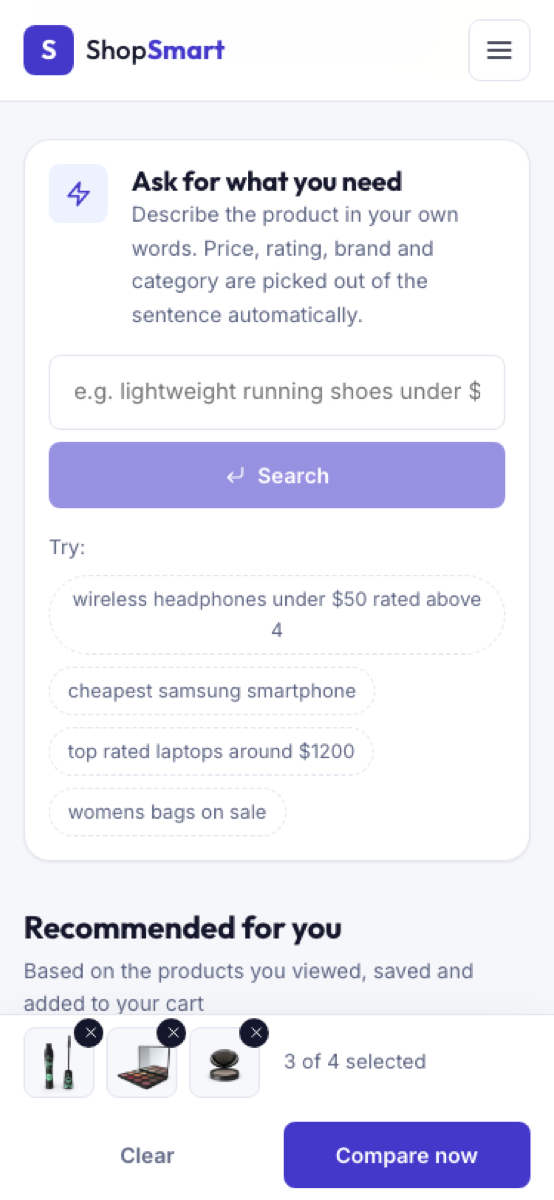
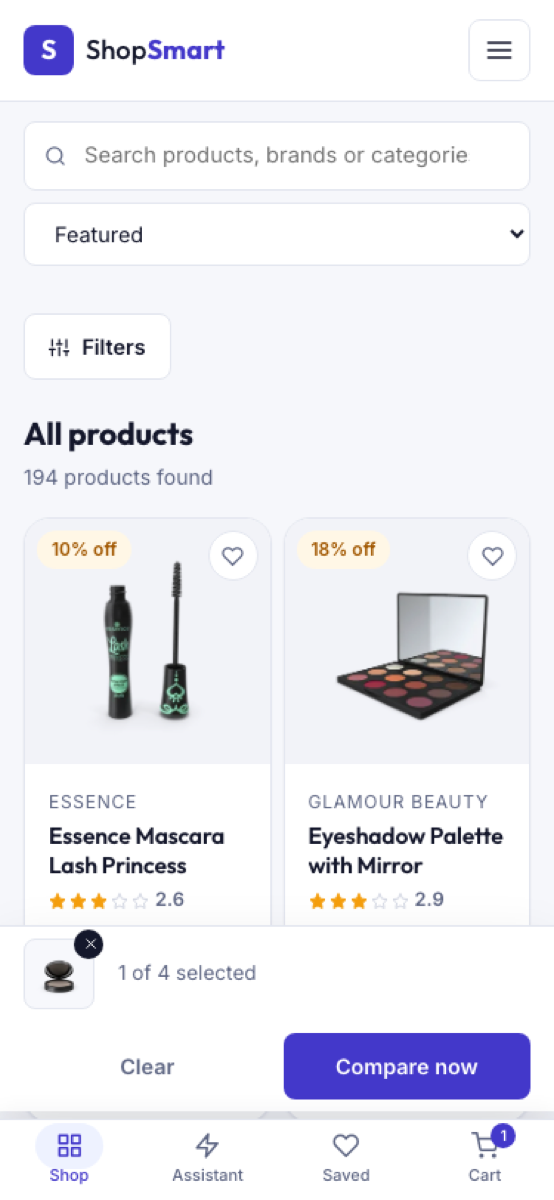
Swap add to cart for go to cart and add mobile bottom navigation

Changed region(s): [[0.0, 0.1233, 1.0, 1.0], [0.9206, 0.185, 0.9513, 0.2158], [0.0921, 0.1233, 0.1227, 0.1542]]

diff --git a/src/components/BottomNav/BottomNav.jsx b/src/components/BottomNav/BottomNav.jsx
@@ -1,0 +1,50 @@
+import { NavLink } from 'react-router-dom'
+import { FiGrid, FiHeart, FiShoppingCart, FiZap } from 'react-icons/fi'
+import { useShop } from '../../context/ShopContext'
+import './BottomNav.css'
+
+const items = [
+  { to: '/', label: 'Shop', icon: FiGrid, end: true, countKey: null },
+  { to: '/assistant', label: 'Assistant', icon: FiZap, countKey: null },
+  { to: '/wishlist', label: 'Saved', icon: FiHeart, countKey: 'wishlistCount' },
+  { to: '/cart', label: 'Cart', icon: FiShoppingCart, countKey: 'cartCount' }
+]
+
+// Phone sized screens get the usual thumb reachable bar instead of reaching for the
+// menu button in the top corner.
+function BottomNav() {
+  const counts = useShop()
+
+  return (
+    <nav className="bottom-nav" aria-label="Primary mobile">
+      <ul>
+        {items.map(({ to, label, icon: Icon, end, countKey }) => {
+          const count = countKey ? counts[countKey] : 0
+
+          return (
+            <li key={to}>
+              <NavLink
+                to={to}
+                end={end}
+                className={({ isActive }) => (isActive ? 'bottom-nav-link is-active' : 'bottom-nav-link')}
+              >
+                <span className="bottom-nav-icon">
+                  <Icon aria-hidden="true" />
+                  {count > 0 ? (
+                    <span className="bottom-nav-count">
+                      {count > 9 ? '9+' : count}
+                      <span className="visually-hidden"> items</span>
+                    </span>
+                  ) : null}
+                </span>
+                {label}
+              </NavLink>
+            </li>
+          )
+        })}
+      </ul>
+    </nav>
+  )
+}
+
+export default BottomNav

diff --git a/src/components/BottomNav/BottomNav.css b/src/components/BottomNav/BottomNav.css
@@ -1,0 +1,70 @@
+.bottom-nav {
+  display: none;
+}
+
+@media (max-width: 767px) {
+  .bottom-nav {
+    position: fixed;
+    left: 0;
+    right: 0;
+    bottom: 0;
+    z-index: 25;
+    display: block;
+    background-color: var(--color-surface);
+    border-top: 1px solid var(--color-border);
+    padding-bottom: env(safe-area-inset-bottom);
+    box-shadow: 0 -4px 16px rgba(20, 23, 43, 0.06);
+  }
+
+  .bottom-nav ul {
+    display: grid;
+    grid-template-columns: repeat(4, 1fr);
+  }
+
+  .bottom-nav-link {
+    display: flex;
+    flex-direction: column;
+    align-items: center;
+    gap: 2px;
+    padding: var(--space-2) var(--space-1);
+    font-size: 0.68rem;
+    font-weight: 500;
+    color: var(--color-muted);
+  }
+
+  .bottom-nav-link.is-active {
+    color: var(--color-primary);
+  }
+
+  .bottom-nav-icon {
+    position: relative;
+    display: grid;
+    place-items: center;
+    font-size: 1.15rem;
+  }
+
+  .bottom-nav-link.is-active .bottom-nav-icon::after {
+    content: '';
+    position: absolute;
+    inset: -6px -14px;
+    border-radius: var(--radius-pill);
+    background-color: var(--color-primary-soft);
+    z-index: -1;
+  }
+
+  .bottom-nav-count {
+    position: absolute;
+    top: -6px;
+    right: -12px;
+    display: grid;
+    place-items: center;
+    min-width: 17px;
+    height: 17px;
+    padding-inline: 4px;
+    border-radius: var(--radius-pill);
+    background-color: var(--color-primary);
+    color: #fff;
+    font-size: 0.62rem;
+    font-weight: 700;
+  }
+}

diff --git a/src/pages/ProductDetails.jsx b/src/pages/ProductDetails.jsx
@@ -1,6 +1,6 @@
 import { useEffect, useMemo, useState } from 'react'
 import { Link, useParams } from 'react-router-dom'
-import { FiChevronRight, FiHeart, FiPackage, FiShoppingCart, FiTruck } from 'react-icons/fi'
+import { FiCheck, FiChevronRight, FiHeart, FiPackage, FiShoppingCart, FiTruck } from 'react-icons/fi'
 import { useCatalog } from '../context/CatalogContext'
 import { useShop } from '../context/ShopContext'
 import StarRating from '../components/StarRating/StarRating'
@@ -17,7 +17,7 @@ import './ProductDetails.css'
 function ProductDetails() {
   const { id } = useParams()
   const { products, status } = useCatalog()
-  const { addToCart, isWishlisted, toggleWishlist, recordView } = useShop()
+  const { addToCart, isInCart, isWishlisted, toggleWishlist, recordView } = useShop()
   const [activeImage, setActiveImage] = useState(0)
   const [quantity, setQuantity] = useState(1)
 
@@ -140,8 +140,14 @@ function ProductDetails() {
               onClick={() => addToCart(product.id, quantity)}
             >
               <FiShoppingCart aria-hidden="true" />
-              Add to cart
+              {isInCart(product.id) ? 'Add more' : 'Add to cart'}
             </button>
+            {isInCart(product.id) ? (
+              <Link className="btn btn-outline product-actions-cart" to="/cart">
+                <FiCheck aria-hidden="true" />
+                Go to cart
+              </Link>
+            ) : null}
             <button
               type="button"
               className={

diff --git a/src/components/ProductCard/ProductCard.jsx b/src/components/ProductCard/ProductCard.jsx
@@ -49,15 +49,23 @@ function ProductCard({ product }) {
             ) : null}
           </p>
 
-          <button
-            type="button"
-            className={inCart ? 'btn btn-outline product-card-cart' : 'btn btn-primary product-card-cart'}
-            onClick={() => addToCart(product.id)}
-          >
-            {inCart ? <FiCheck aria-hidden="true" /> : <FiShoppingCart aria-hidden="true" />}
-            {inCart ? 'In cart' : 'Add to cart'}
-            <span className="visually-hidden"> - {product.title}</span>
-          </button>
+          {inCart ? (
+            <Link className="btn btn-outline product-card-cart" to="/cart">
+              <FiCheck aria-hidden="true" />
+              Go to cart
+              <span className="visually-hidden"> - {product.title} is in your cart</span>
+            </Link>
+          ) : (
+            <button
+              type="button"
+              className="btn btn-primary product-card-cart"
+              onClick={() => addToCart(product.id)}
+            >
+              <FiShoppingCart aria-hidden="true" />
+              Add to cart
+              <span className="visually-hidden"> - {product.title}</span>
+            </button>
+          )}
 
           <label className={compared ? 'product-card-compare is-active' : 'product-card-compare'}>
             <input

diff --git a/src/App.jsx b/src/App.jsx
@@ -3,6 +3,7 @@ import { Route, Routes } from 'react-router-dom'
 import Header from './components/Header/Header'
 import Footer from './components/Footer/Footer'
 import CompareBar from './components/CompareBar/CompareBar'
+import BottomNav from './components/BottomNav/BottomNav'
 import Home from './pages/Home'
 import './App.css'
 
@@ -38,6 +39,7 @@ function App() {
       </main>
       <CompareBar />
       <Footer />
+      <BottomNav />
     </div>
   )
 }

diff --git a/src/pages/Assistant.css b/src/pages/Assistant.css
@@ -178,6 +178,12 @@
   background-color: var(--color-surface);
 }
 
+@media (max-width: 767px) {
+  .assistant-form {
+    bottom: calc(var(--bottom-nav-height) + var(--space-2));
+  }
+}
+
 @media (max-width: 600px) {
   .assistant-intro {
     flex-wrap: wrap;

diff --git a/src/components/CompareBar/CompareBar.css b/src/components/CompareBar/CompareBar.css
@@ -74,3 +74,12 @@
     flex: 1;
   }
 }
+
+@media (max-width: 767px) {
+  .compare-bar {
+    position: fixed;
+    left: 0;
+    right: 0;
+    bottom: var(--bottom-nav-height);
+  }
+}

diff --git a/src/App.css b/src/App.css
@@ -14,3 +14,9 @@
   text-align: center;
   color: var(--color-muted);
 }
+
+@media (max-width: 767px) {
+  .app {
+    padding-bottom: var(--bottom-nav-height);
+  }
+}

diff --git a/src/index.css b/src/index.css
@@ -35,6 +35,7 @@
   --font-body: 'Inter', 'Segoe UI', sans-serif;
 
   --header-height: 68px;
+  --bottom-nav-height: 60px;
   --max-width: 1240px;
 }
 

diff --git a/README.md b/README.md
@@ -271,7 +271,7 @@ src/
 
 Tested and working on:
 
-- Mobile devices from 375px, with a hamburger menu, a collapsible filter drawer and a two column product grid
+- Mobile devices from 375px, with a bottom navigation bar for shop, assistant, saved items and cart, a collapsible filter drawer and a two column product grid
 - Tablets from 768px
 - Desktops from 1024px, with a sticky filter sidebar
 
@@ -306,6 +306,10 @@ Tested and working on:
   `--space-7`, which keeps rhythm consistent without eyeballing values.
 - **Plain CSS per component.** Each component owns its stylesheet next to its JSX, so
   styles stay easy to trace and nothing leaks between components.
+- **Thumb reachable navigation on phones.** Below 768px the links move into a fixed
+  bottom bar with live cart and wishlist counts, which is where a phone user's thumb
+  already is. The comparison tray and the assistant input sit above it rather than under
+  it.
 - **Code split by route.** Only the shop page ships in the first bundle. The other pages
   and the 65KB offline catalogue snapshot are fetched when they are actually needed, which
   keeps the initial download about a third smaller.
